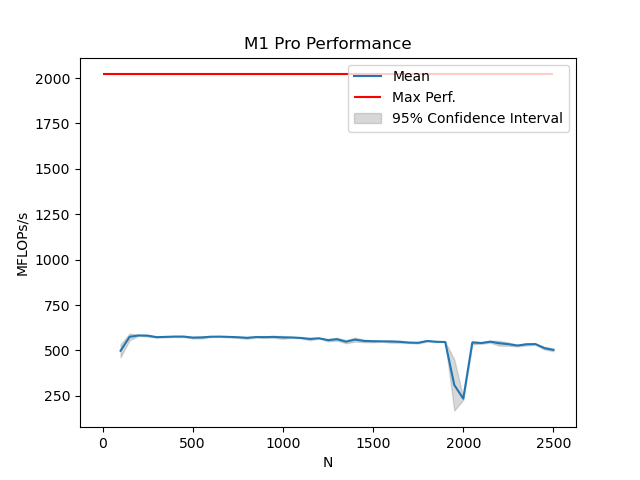
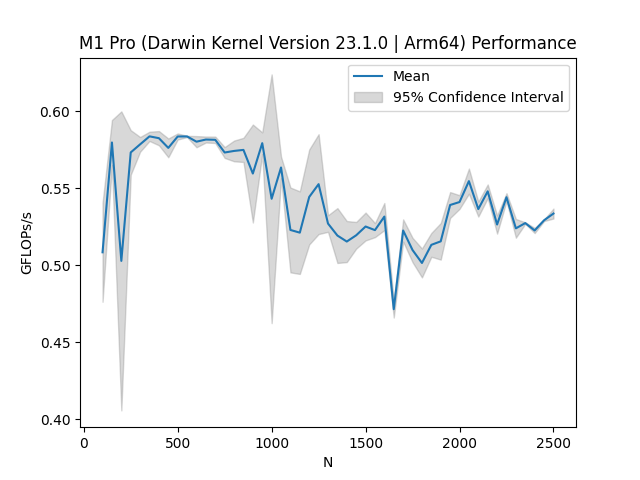
Added the required graphs with and without peak/core

diff --git a/graphs.py b/graphs.py
@@ -3,11 +3,14 @@ import numpy as np
 import matplotlib.pyplot as plt
 from collections import defaultdict
 import scipy.stats as st
+from mpl_toolkits.axes_grid1 import make_axes_locatable
 
-path = r"./matrix_multiplication_berk.csv"
+path = "./output/float_updated.csv"
 data = pd.read_csv(path)
-plot_name = 'performance_berk_laptop'
+plot_name = 'performance_berk_laptop_with_peak'
 use_time = True
+peak_perf = 2.02
+plot_title = 'M1 Pro (Darwin Kernel Version 23.1.0 | Arm64) Performace'
 
 mflops_s_data = defaultdict(list)
 
@@ -42,14 +45,19 @@ for n, perf_data in mflops_s_data.items():
     ci_highs.append(ci_high)
 
 # Plot the line
-plt.plot(x, means, label='Mean')
-# plt.hlines(y=2020, xmin=0, xmax=x_max, colors="r", label="Max Perf.")
+fig, ax = plt.subplots()
+
+ax.plot(x, means, label='Mean')
+
 # Plot the confidence interval as a shaded area
-plt.fill_between(x, ci_lows, ci_highs, color='gray', alpha=0.3, label='95% Confidence Interval')
+ax.fill_between(x, ci_lows, ci_highs, color='gray', alpha=0.3, label='95% Confidence Interval')
+
+# Add a horizontal line at peak performance
+ax.axhline(y=peak_perf, color='red', label='Peak Perf')
 
 plt.xlabel('N')
 plt.ylabel('GFLOPs/s')
-plt.title('M1 Pro (Darwin Kernel Version 23.1.0 | Arm64) Performance')
+plt.title(plot_title)
 plt.legend()
 
 plt.savefig(f'{plot_name}.png')
